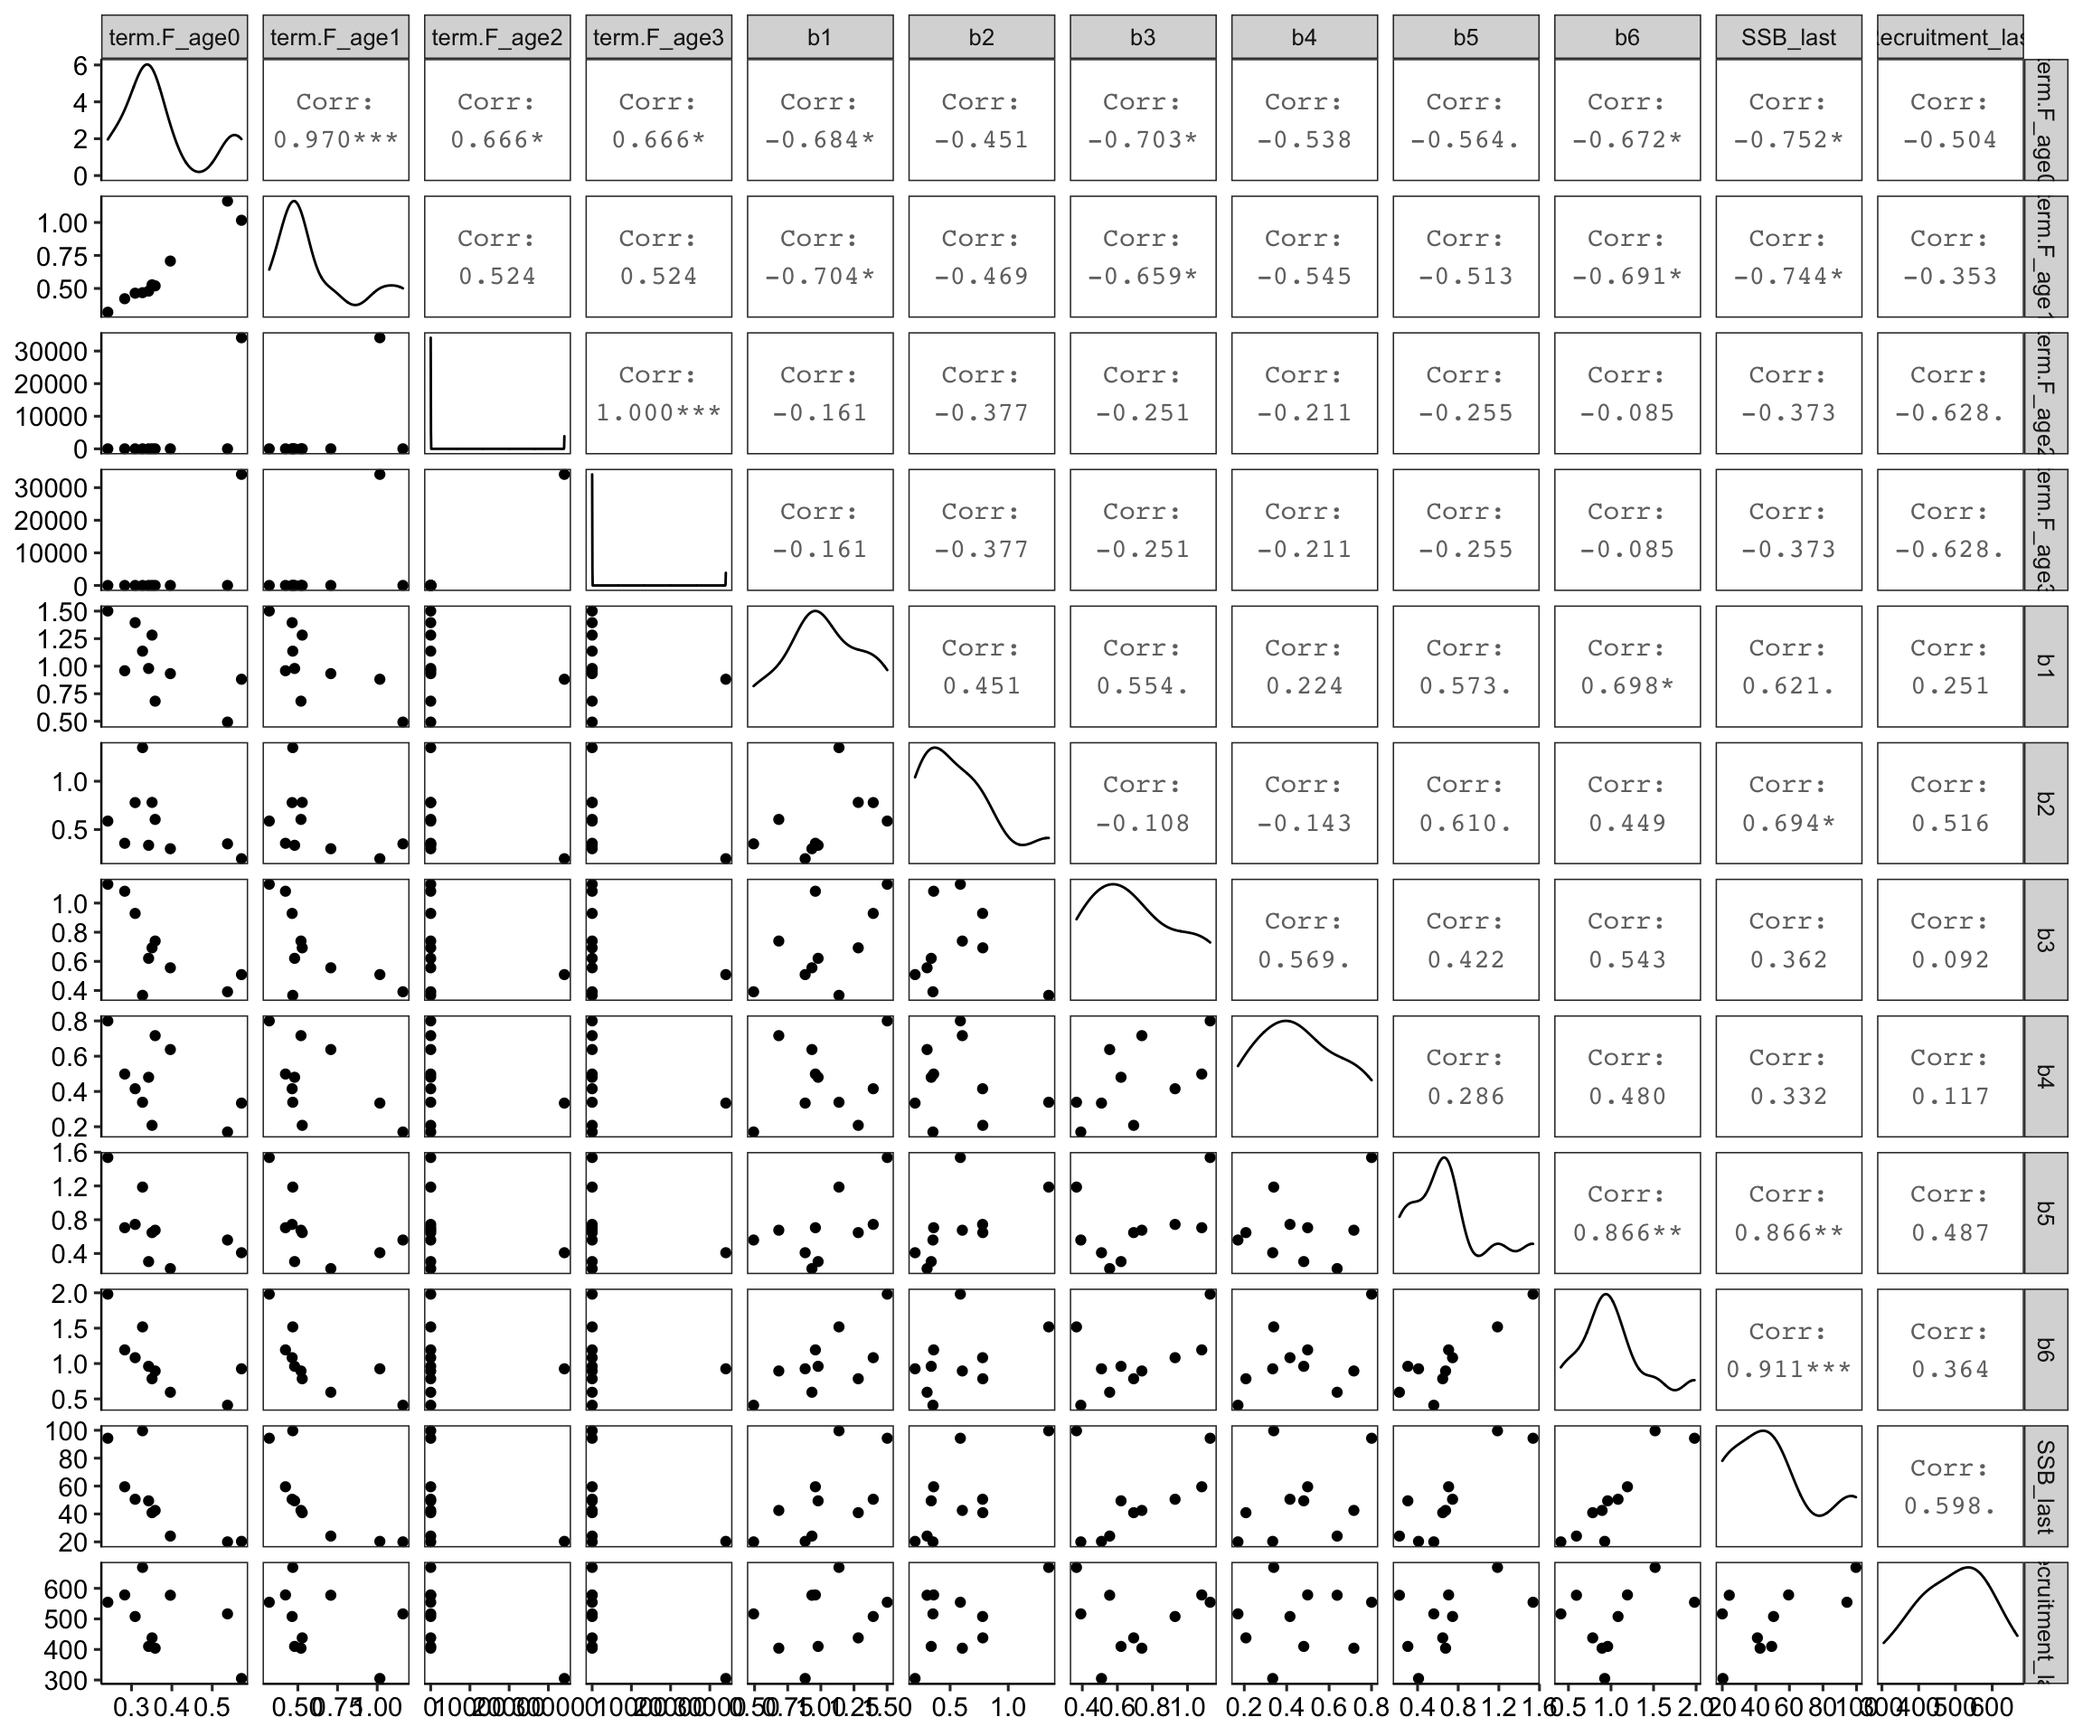
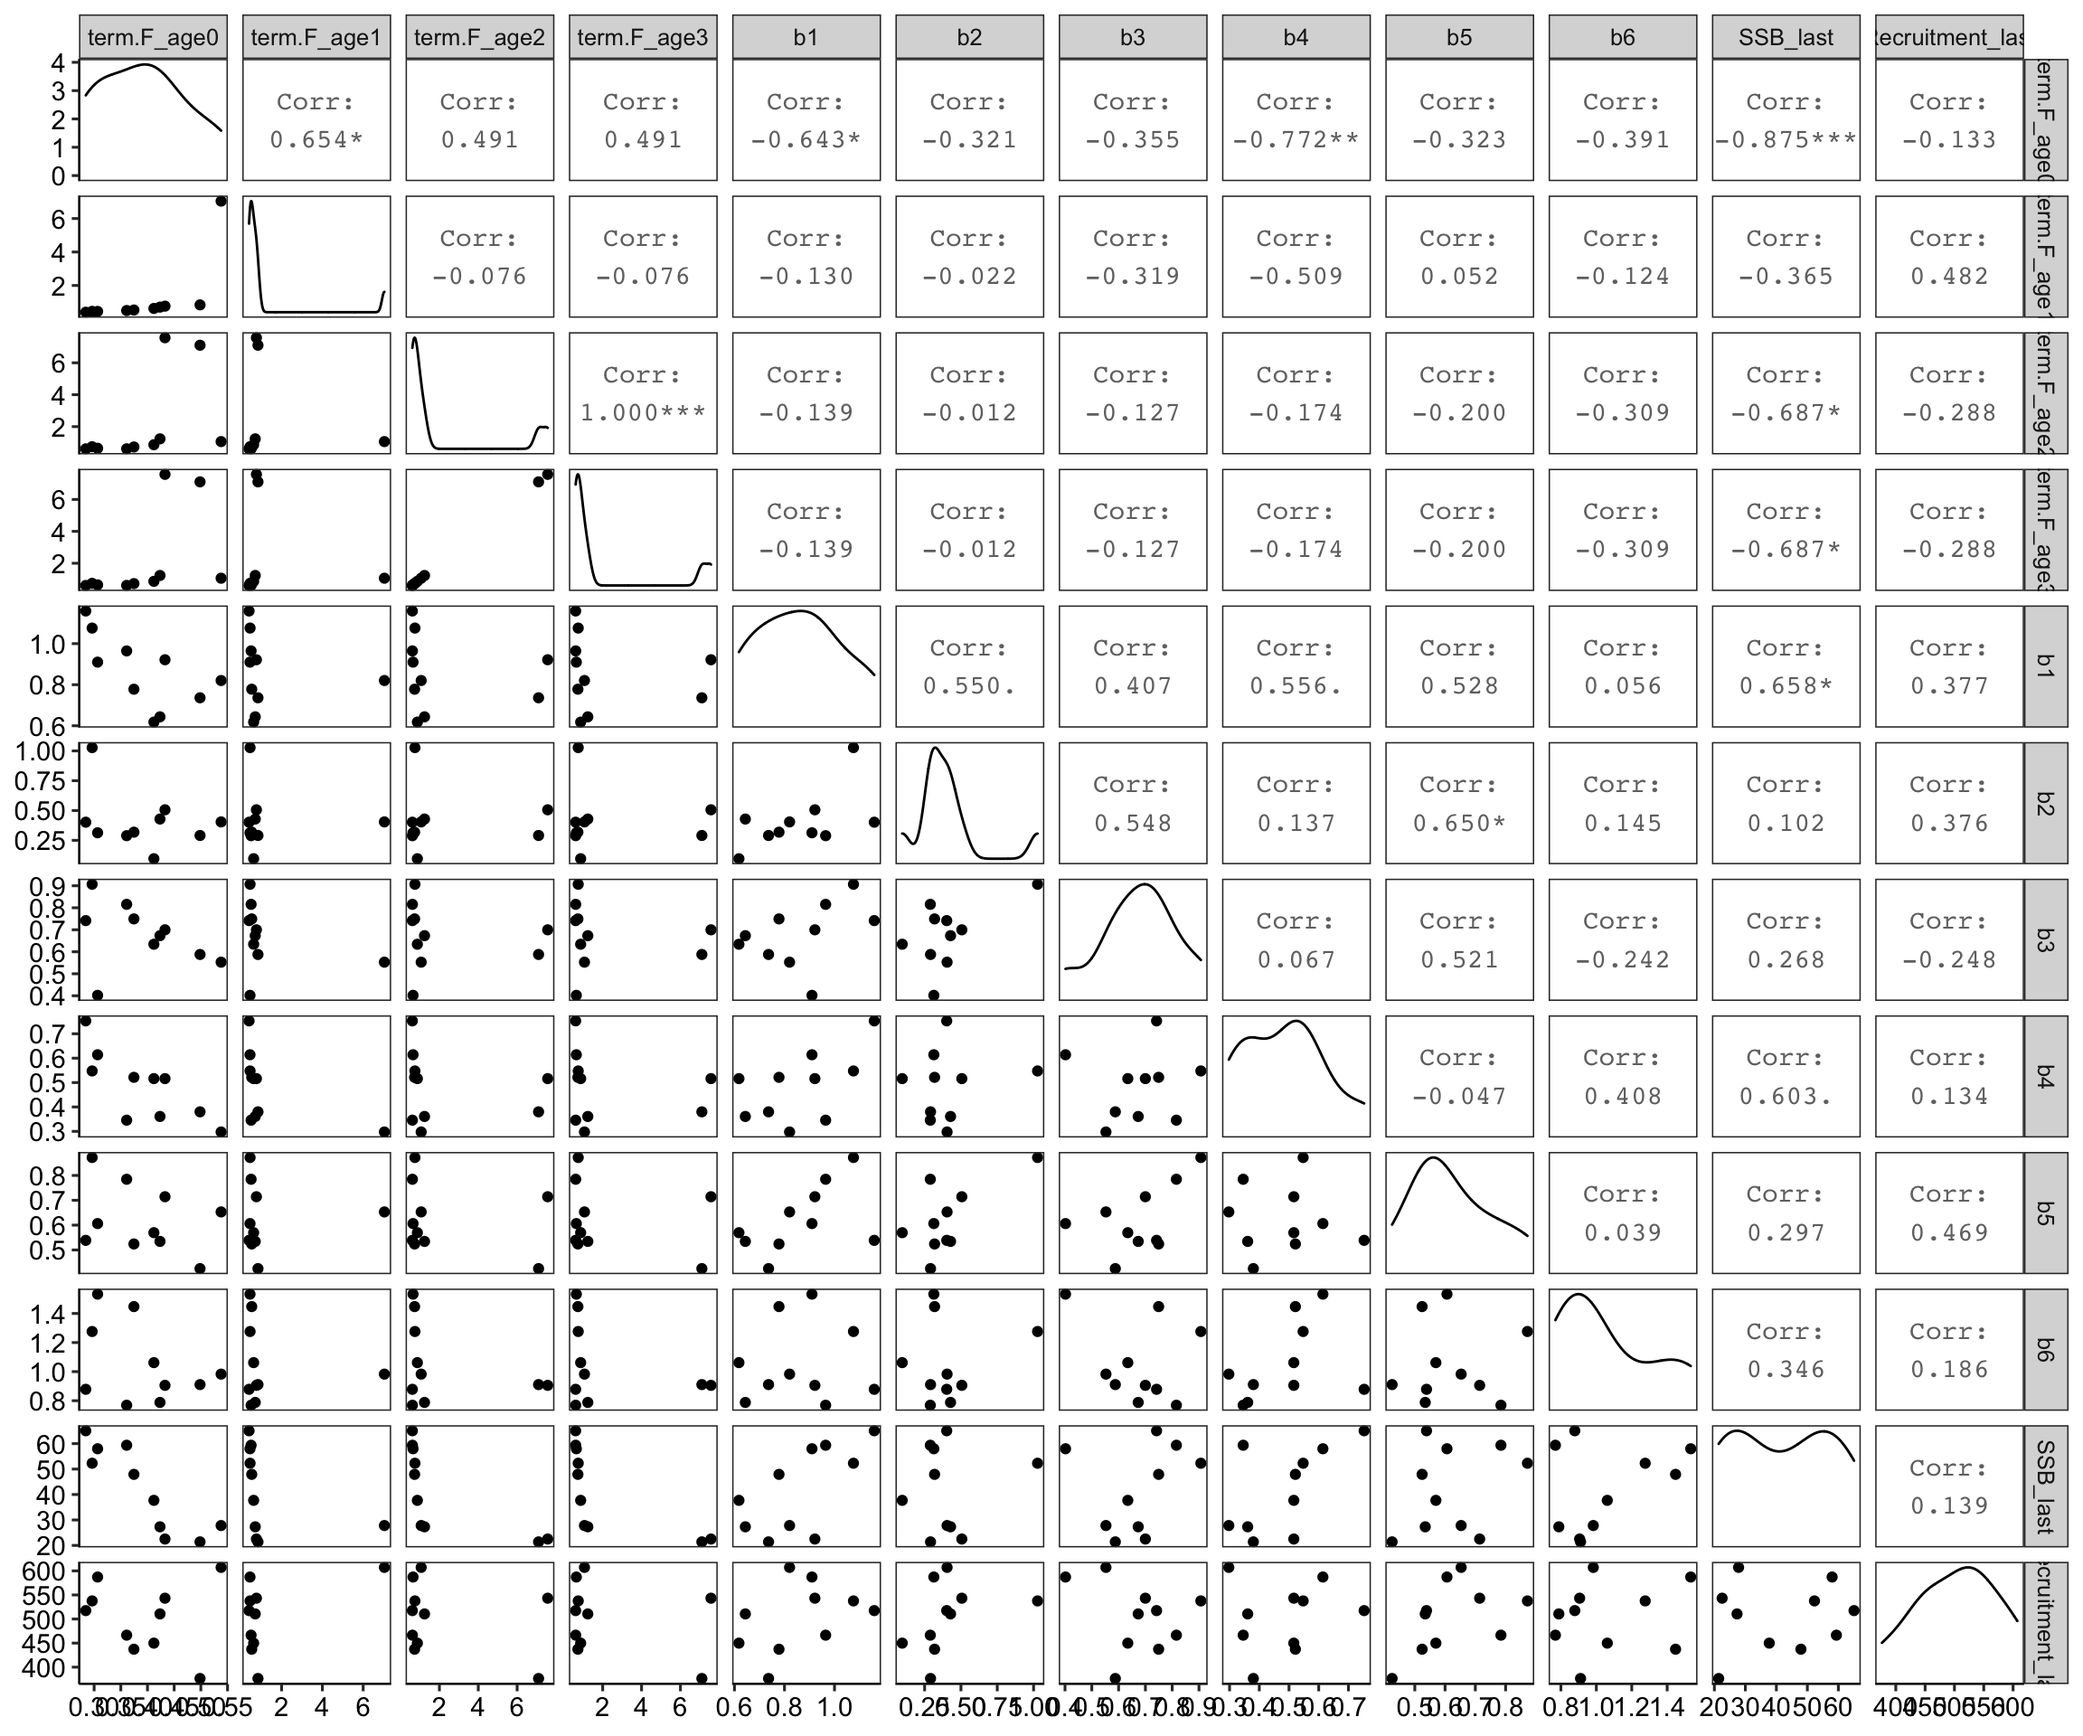
Built site for frasyr: 2.1.0.0@11c830b

diff --git a/articles/Diagnostics-for-VPA.html b/articles/Diagnostics-for-VPA.html
@@ -78,7 +78,7 @@
       <h1 data-toc-skip>VPAモデル診断スクリプト</h1>
                         <h4 class="author">Kohei Hamabe &amp; Momoko Ichinokawa</h4>
             
-            <h4 class="date">2020-07-08</h4>
+            <h4 class="date">2020-07-09</h4>
       
       
       <div class="hidden name"><code>Diagnostics-for-VPA.Rmd</code></div>
@@ -572,8 +572,8 @@ Likelihood with estimated parameters is:  23.60018 </code></pre>
 <span class="co">for</span>(<span class="kw">i</span> <span class="co">in</span> <span class="fl">1</span><span class="op">:</span><span class="fl">10</span>) <span class="kw">res_tmp</span>[<span class="kw">i</span>] <span class="op">&lt;-</span> <span class="fu"><a href="https://rdrr.io/r/base/numeric.html">as.numeric</a></span>(<span class="kw">res_vpa_bootstrap</span><span class="op">$</span><span class="kw">res_boot</span>[[<span class="kw">i</span>]]<span class="op">$</span><span class="kw">Fc.at.age</span>[<span class="fl">4</span>])
 <span class="fu"><a href="https://rdrr.io/r/stats/quantile.html">quantile</a></span>(<span class="kw">res_tmp</span>, probs = <span class="fu"><a href="https://rdrr.io/r/base/c.html">c</a></span>(<span class="fl">0.025</span>,<span class="fl">0.5</span>,<span class="fl">0.975</span>))
 </pre></div>
-<pre><code>        2.5%          50%        97.5% 
-4.241448e-01 7.956991e-01 2.641115e+04 </code></pre>
+<pre><code>     2.5%       50%     97.5% 
+0.6081193 0.8030787 7.4663074 </code></pre>
 <p>この他、各パラメータの相関関係について、ブートストラップ標本を基にプロットが得られます。</p>
 <div class="sourceCode" id="cb40"><pre class="downlit">
 <span class="kw">res_vpa_bootstrap</span><span class="op">$</span><span class="kw">plot_cor</span>

diff --git a/articles/vpa.html b/articles/vpa.html
@@ -78,7 +78,7 @@
       <h1 data-toc-skip>VPA関数を使った資源量推定</h1>
                         <h4 class="author">市野川桃子</h4>
             
-            <h4 class="date">2020-07-08</h4>
+            <h4 class="date">2020-07-09</h4>
       
       
       <div class="hidden name"><code>vpa.Rmd</code></div>
